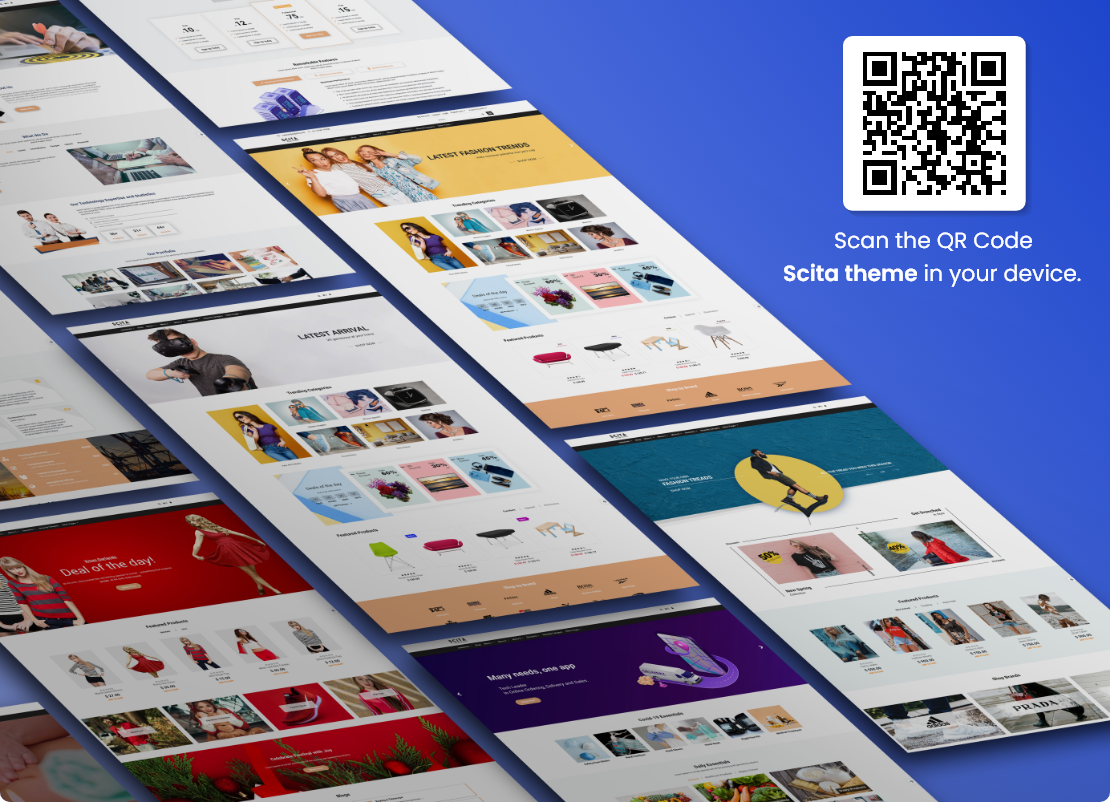
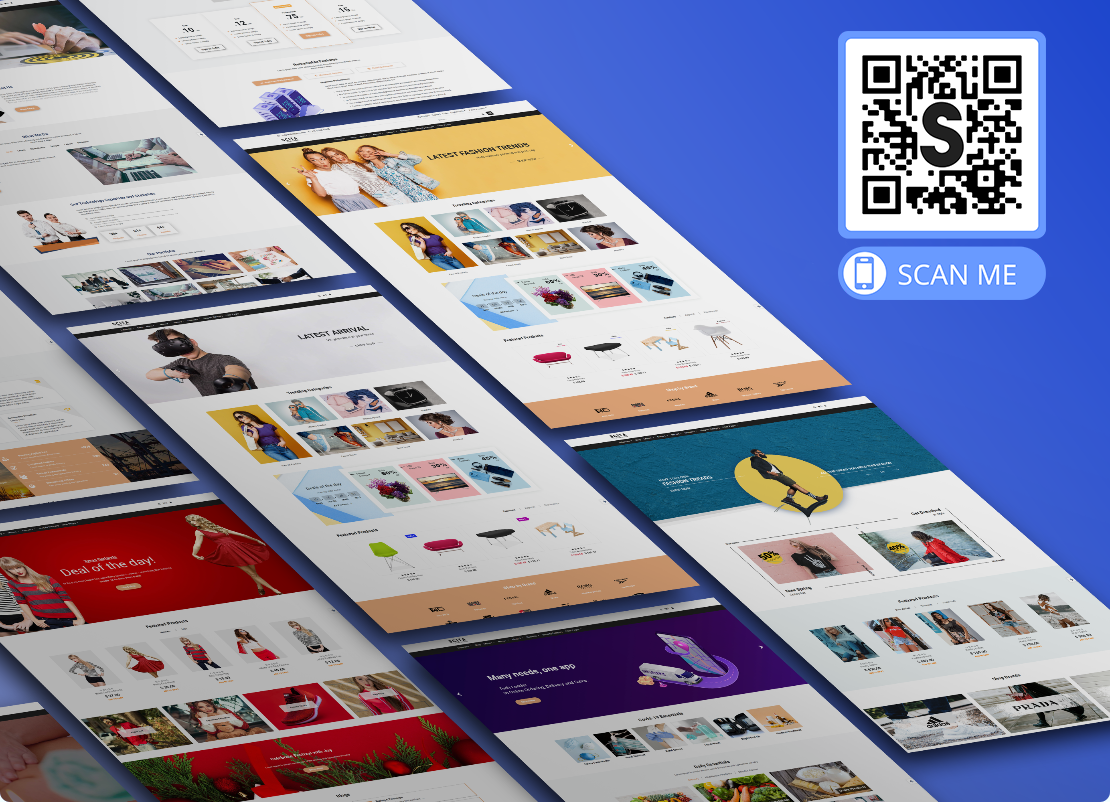
v16 qr image update and index file update

diff --git a/theme_scita/static/description/index.html b/theme_scita/static/description/index.html
@@ -584,7 +584,7 @@
                 </div>
             </div>
             <div class="snippet_cust_box" style="margin: 0 56px;    margin-top: 28px;
-            padding-bottom: 30px;">
+            padding-bottom: 10px;">
                 <div class="row justify-content-center">
                     
                      <div class="col-12 col-md-6 col-lg-4 text-center">
@@ -1866,7 +1866,7 @@
 </section>
 <section class="oe_container mb48" style="font-family: 'Poppins', sans-serif;color: #3D3D3D;background: #f1feff;padding-bottom: 30px;">
     <div class="container">
-        <div class="snippet_cust shadow" style="background-color: #fff;border-radius: 10px;">
+        <div class="snippet_cust shadow pb-3" style="background-color: #fff;border-radius: 10px;">
             <div class="snippet_banner" style="background-color: #3D3D3D;padding: 17px;border-top-left-radius: 10px;border-top-right-radius: 10px;">
                 <div class="row sct-top-row">
                     <div class="col-md-12 text-center">
@@ -1886,7 +1886,7 @@
                     </div>
                 </div>
             </div>
-            <div class="alert alert-danger" role="alert">
+            <div class="alert alert-danger mr-4 ml-4 mb-0" role="alert">
                 Some of the features are upgraded and Some of the features are removed from Theme Scita version 16.
             </div>
         </div>
